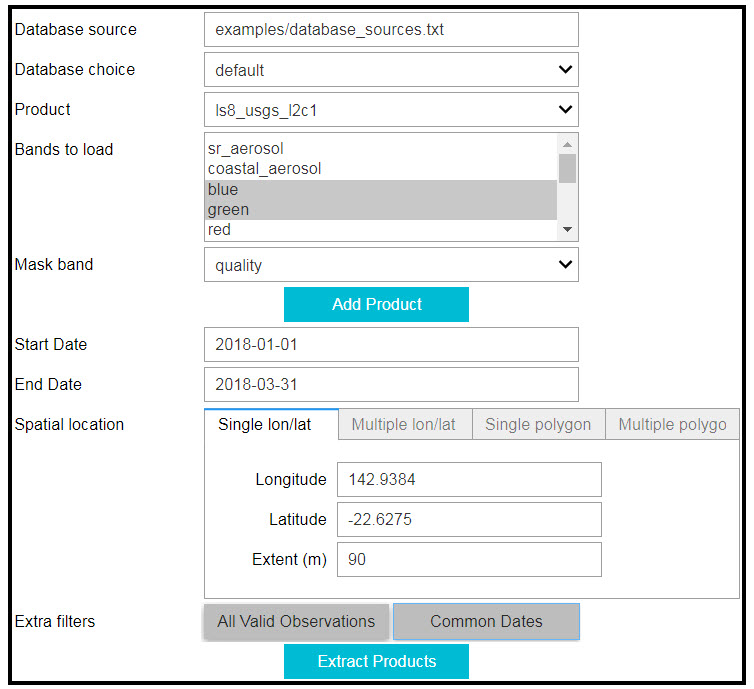
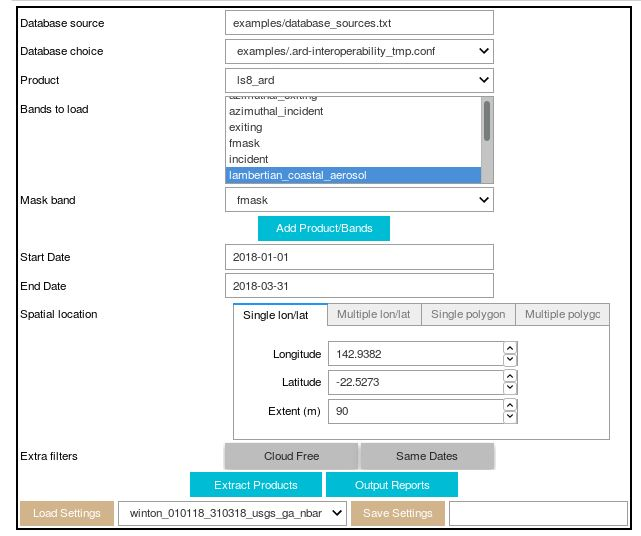
update the readme

Changed region(s): [[0.0, 0.0, 0.9984, 1.0]]

diff --git a/11_Inter_comparison/opensource/inter_comparison/README.md b/11_Inter_comparison/opensource/inter_comparison/README.md
@@ -13,24 +13,24 @@
 - run the compare_products_opensource.ipynb notebook 
 
   
-## two parts of the comparing products
+## Two parts of the comparing products:
 
 ### Select products and load them from datacube
 
 ![Alt text](inter_comparison/docs/loading_data_gui.jpg?raw=true "Title")
 
 - 1. Create a file containing the database sources. For example, create a file called database_sources.txt with content:
-examples/.ard-interoperability.conf
-default
+examples/.ard-interoperability.conf  
+default  
 while each line above points to a specific database. The 'default' database in Geoscience Australia is the operational database and can be used for comparing USGS level 2 data and GA ARD.
 
 - 2. Set up the database source by inputting the file name then pressing Enter.
 
-- 3. After the database source is set up, the available databases are shown in the Database choice drop down menu. Select one database e.g. default. 
+- 3. After the database source is set up, the available databases are shown in the Database choice drop down menu. Select one database e.g. examples/.ard-interoperability.conf. 
 
 - 4. After selecting a database, all available products in the database are shown in the Product drop down menu. Select one product, e.g. ls8_ard. Note: loading all tables from the Geoscience Australia default operational database can take much longer time than expected, please be patient!
 
-- 5. After the product is selected, its available bands are shown in the Bands to load drop down menu. Select one or more bands for this product, e.g. nbar_blue, nbar_green for ls8_ard.
+- 5. After the product is selected, its available bands are shown in the Bands to load drop down menu. Select one or more bands for this product, e.g. lambertian_coastal_aerosol.
 
 - 6. In the Mask band drop down menu, select a band (e.g. fmask for ls8_ard) that is going to be used to mask cloud/shadow.
 
@@ -42,29 +42,33 @@ while each line above points to a specific database. The 'default' database in G
 
 - 10. Choose if adding the extra filters (only include valid observations, only include common dates between products to compare) by clicking the corresponding toggle buttons.
 
-- 11. Click Extract Products to load all selected products from datacube
+- 11. Click Extract Products to load selected bands for all selected products from datacube
 
-- 12. Run the next three cells in the Jupyter notebook, another GUI is produced for plotting.
+- 12. Click Output Reports to export all bands for all selected products from datacube
+
+- 13. To use the same parameters in the future, user can save the current setting for future use by typing a name in the Save Settings box at the bottom of the GUI. Then it will be available within the Load Settings box after the cell containing GUI is refreshed. Users can select the saved setting from the Load Settings box.
+
+- 14. Run the next three cells in the Jupyter notebook, another GUI is produced for plotting.
 
 ![Alt text](inter_comparison/docs/ploting_data_gui.jpg?raw=true "Title")
 
-- 13. Based on the products loaded earlier, in this GUI, the availble pairs of location and time are shown in the Location and time drop down menu. Select the location and time of your interest. 
+- 15. Based on the products loaded earlier, in this GUI, the availble pairs of location and time are shown in the Location and time drop down menu. Select the location and time of your interest. 
 
-- 14. All products available for this pair of location and time are shown in the Products available drop down menu. Select the product of interest
+- 16. All products available for this pair of location and time are shown in the Products available drop down menu. Select the product of interest
 
-- 15. After the product is selected, its previously loaded bands are shown for user to select one or more bands for plotting
+- 17. After the product is selected, its previously loaded bands are shown for user to select one or more bands for plotting
 
-- 16. Click the Add Products/Bands button to add the product with the selected bands for plotting.
+- 18. Click the Add Products/Bands button to add the product with the selected bands for plotting.
 
-- 17. Repeat step 13 to 16 to select all previously loaded products of interest for plotting 
+- 19. Repeat step 15 to 18 to select all previously loaded products of interest for plotting 
 
-- 18. After all products are selected, click the Plot button to plot these products.
+- 20. After all products are selected, click the Plot button to plot these products.
 
 ![Alt text](inter_comparison/docs/ploting_data.jpg?raw=true "Title")
 
-- 19. Then the time series data for the band (chosen from all available bands) for each product is drawn.
+- 21. Then the time series data for the band (chosen from all available bands) for each product is drawn.
 
-- 20. The data value range can be adjusted by typing the minimum value in the Min value box, and maximum value in the Max value box. 
+- 22. The data value range can be adjusted by typing the minimum value in the Min value box, and maximum value in the Max value box. 
 
-- 21. From the drop down menu for each product user can select different band at one time to draw.
+- 23. From the drop down menu for each product user can select different band at one time to draw.
 
